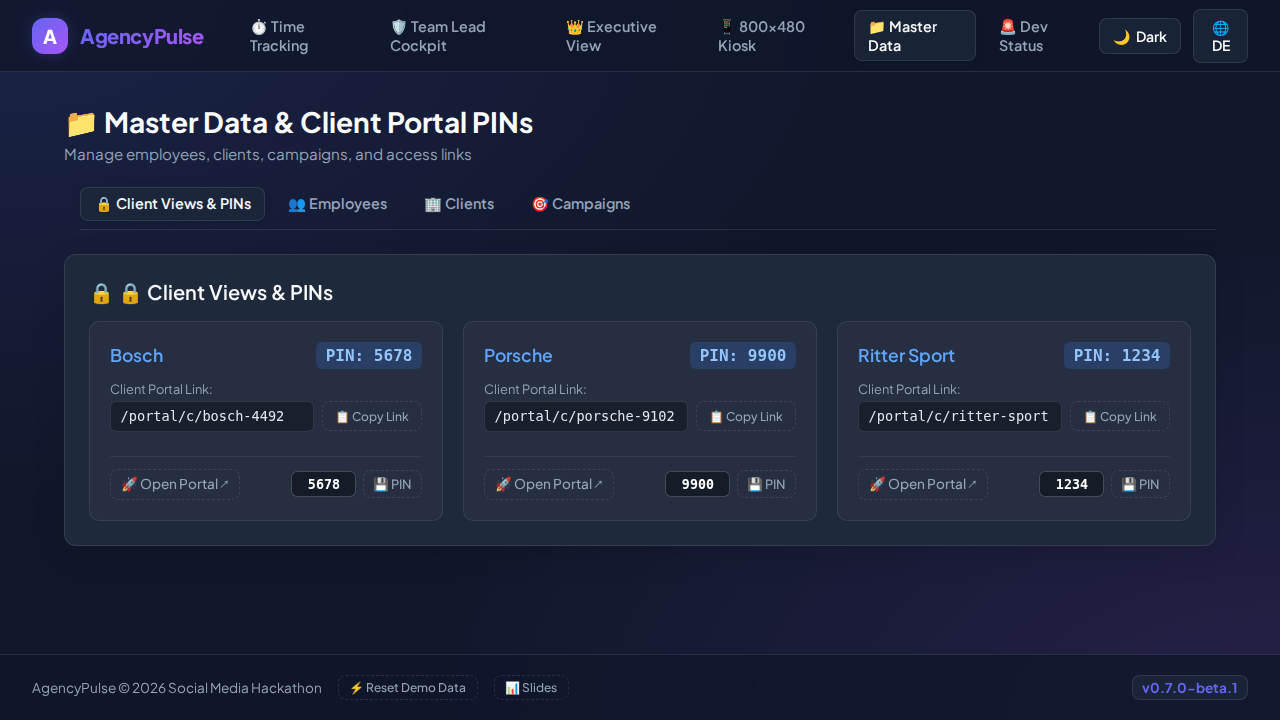
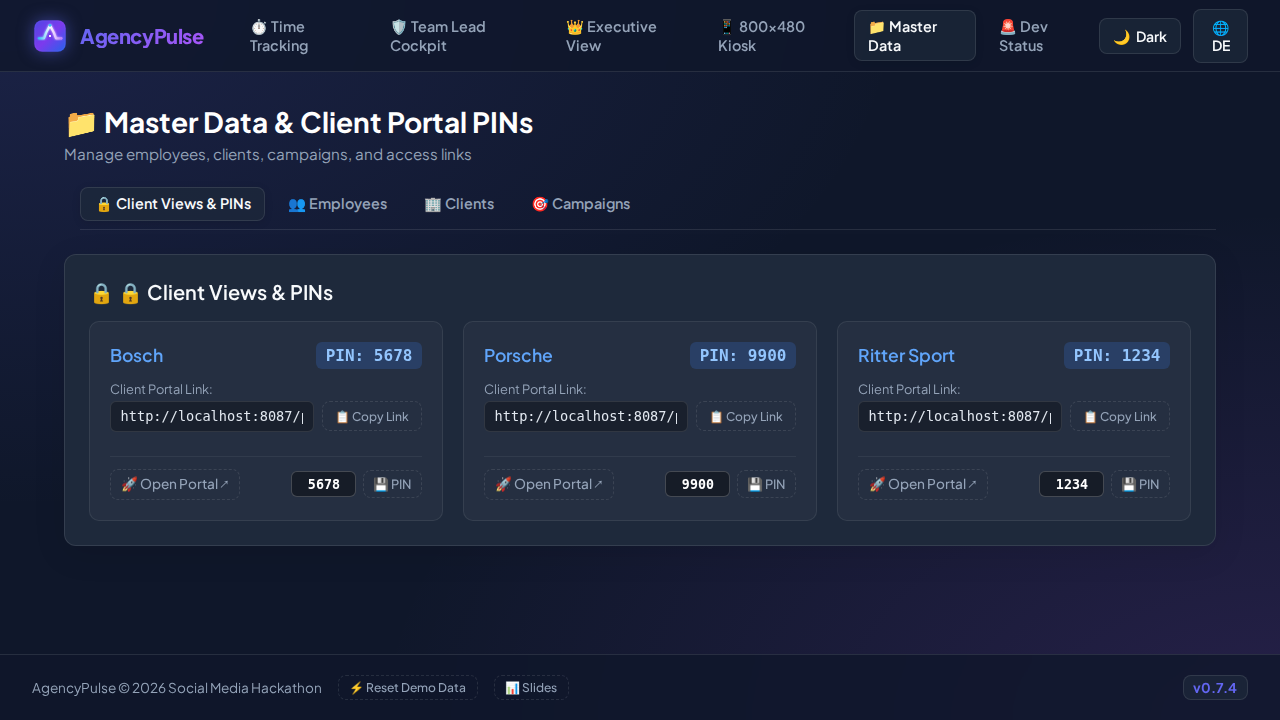
Release v0.7.5: AgencyPulse MVP

diff --git a/cmd/agencypulse/main.go b/cmd/agencypulse/main.go
@@ -20,7 +20,7 @@ import (
 	"agencypulse/internal/tts"
 )
 
-const version = "0.7.4"
+const version = "0.7.5"
 
 
 

diff --git a/RELEASE_NOTES.md b/RELEASE_NOTES.md
@@ -1,16 +1,14 @@
-# RELEASE_NOTES.md — AgencyPulse v0.7.4
+# RELEASE_NOTES.md — AgencyPulse v0.7.5
 
 **Release Date:** 2026-07-25  
-**Milestone:** Pitch Slides SVG Branding & Chromes (`v0.7.4`)
+**Milestone:** Pitch Media Assets & Submission Release (`v0.7.5`)
 
 ---
 
 ## 🎯 Release Summary
 
-Release `v0.7.4` integrates vector SVG branding assets into the `/slides` presentation viewer and deck chromes.
+Release `v0.7.5` updates pitch media automation assets, updated screencast screenshots, and hackathon submission metadata.
 
 ### Key Highlights
-- **SVG Branding in Presentation Deck**: Embedded `/static/logo.svg` directly into the hero slide of `pitch/slides.md`.
-- **Slide Renderer Enhancements**: Added brand logo figure detection (`.slide-brand`) in `internal/pitch/slides.go` preventing caption duplication for logo images.
-- **Unit Testing**: Added `TestParseSlidesBrandLogo` test suite in `internal/pitch/slides_test.go`.
-- **Slide Deck Chrome**: Added `logo-icon.svg` badge to the footer navigation link in `web/templates/slides.html`.
+- **Pitch Screencast Assets**: Updated `pitch/scenes.yaml`, slide deck target pointers, and generated pitch screenshots.
+- **Submission Manifest**: Updated `SUBMISSION.md` with SVG project logo assets (`logo-icon.svg` & `logo.svg`).

diff --git a/pitch/README.md b/pitch/README.md
@@ -1,7 +1,8 @@
 # Pitch Media
 
-**Current pitch target:** `v0.7.0-beta` — Master Data & Client PIN overview  
-**Primary demo base:** `http://localhost:8084`
+**Current pitch target:** `v0.7.4` — Slides branding + Master Data & Client PIN overview  
+**Primary demo base:** `http://localhost:8084`  
+**Live demo:** `https://trw5wo98w.ralf-metzing.de`
 
 ## Slides
 
@@ -17,7 +18,7 @@ Captions use a solid black plate for readability.
 
 ```bash
 go run ./cmd/pitchmedia
-# → artifacts/agencypulse-0.7.0-beta.1.mp4
+# → artifacts/agencypulse-0.7.4.mp4
 ```
 
 ## Key demo URLs

diff --git a/CHANGELOG.md b/CHANGELOG.md
@@ -2,6 +2,11 @@
 
 All notable changes to AgencyPulse will be documented in this file.
 
+## [v0.7.5] — 2026-07-25 (Pitch Media Assets & Submission Release)
+### Added
+- Updated pitch screencast scenes, slide deck assets, and submission manifest documentation.
+- Integrated logo assets into `SUBMISSION.md`.
+
 ## [v0.7.4] — 2026-07-25 (Pitch Slides SVG Branding & Chromes Release)
 ### Added
 - Integrated SVG Vector Brand Logos (`/static/logo.svg` & `/static/logo-icon.svg`) directly into `/slides` presentation deck.

diff --git a/SUBMISSION.md b/SUBMISSION.md
@@ -16,7 +16,8 @@
 ---
 
 ### Project Logo (Recommended)
-- **Status:** *TBD* (Square PNG, JPEG, WebP, or SVG up to 2 MB)
+- **Asset:** `web/static/logo-icon.svg` (and `web/static/logo.svg`)
+- **Status:** Complete (Vector SVG App Logo & Favicon)
 
 ---
 

diff --git a/pitch/slides.md b/pitch/slides.md
@@ -1,6 +1,6 @@
 <!--
   OWNER: Pitch Media pipeline ONLY
-  Target: v0.7.0-beta — Master Data + prior domain story
+  Target: v0.7.4 — Branding + Master Data + prior domain story
 -->
 
 ![AgencyPulse](/static/logo.svg)
